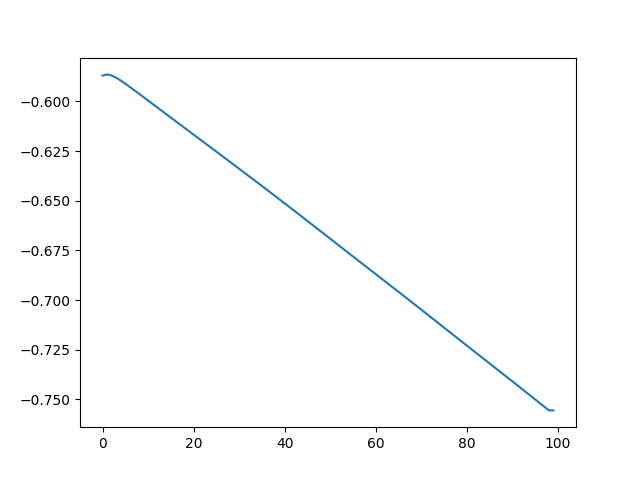
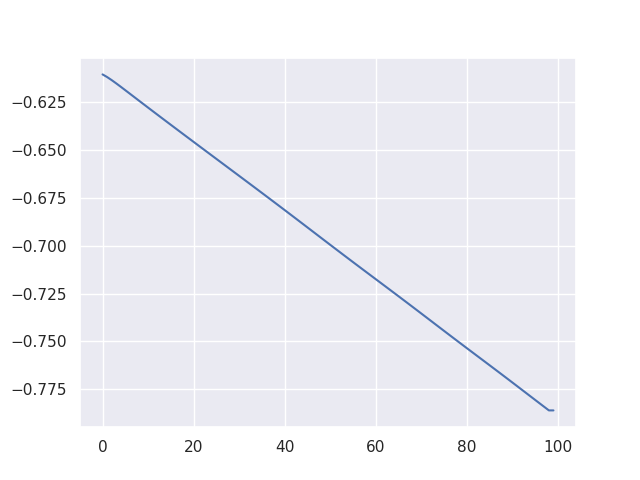
fixed some equation code

diff --git a/multi_solver_relaxed.py b/multi_solver_relaxed.py
@@ -1,6 +1,5 @@
 import numpy as np
 from numba import njit
-import numba_scipy
 import testUtils as tu
 
 import scipy.optimize as sp
@@ -33,7 +32,7 @@ def elyps_solver(
                     + __G_h(i, j + 0.5, len, width)
                     + __G_h(i, j - 0.5, len, width)
                 )
-                x = c[i, j]
+                x = c[i, j] + 0.01
                 for iter in range(maxiter):
                     # if iter == maxiter - 2:
                     # print(iter)
@@ -46,8 +45,8 @@ def elyps_solver(
                             + __G_h(i, j + 0.5, len, width) * c[i, j + 1] ** alpha
                             + __G_h(i, j - 0.5, len, width) * c[i, j - 1] ** alpha
                         )
-                        - h**-2 * bordernumber * x**alpha
-                        - alpha * x**alpha
+                        + h**-2 * bordernumber * x**alpha
+                        + alpha * x**alpha
                         - alpha * phase[i, j] ** alpha
                     )
 
@@ -59,14 +58,14 @@ def elyps_solver(
                             + __G_h(i, j + 0.5, len, width) * c[i, j + 1] ** alpha
                             + __G_h(i, j - 0.5, len, width) * c[i, j - 1] ** alpha
                         )
-                        - h**-2 * bordernumber * (x + 1e-2) ** alpha
-                        - alpha * (x + 1e-2) ** alpha
+                        + h**-2 * bordernumber * (x + 1e-2) ** alpha
+                        + alpha * (x + 1e-2) ** alpha
                         - alpha * phase[i, j] ** alpha
                     )
-                    if False:
-                        dF = bordernumber * alpha**2 * x ** (
+                    if True:
+                        dF = -1 * h**-2 * alpha**2 * x ** (
                             alpha - 1
-                        ) + alpha**2 * x ** (alpha - 1)
+                        ) + bordernumber * alpha**2 * x ** (alpha - 1)
                     else:
                         dF = 1e2 * (F_h - F)
 
@@ -79,7 +78,7 @@ def elyps_solver(
                     x = x - step
                     if abs(step) < tol:
                         break
-                    if abs(step) > 1e8:
+                    if abs(step) > 1e16:
                         print("Step:")
                         print(step)
                         print("Iter:")
@@ -523,5 +522,4 @@ def test_solver() -> CH_2D_Multigrid_Solver_relaxed:
     solver = CH_2D_Multigrid_Solver_relaxed(
         tu.wprime, tu.k_spheres_phase(5, 5), 1e-3, 1e-3, 1e-3
     )
-    solver.c = solver.phase_small
     return solver

diff --git a/multi_solver.py b/multi_solver.py
@@ -93,7 +93,7 @@ def __G_h(i, j, len_small, width_small) -> float:
     1 if index i,j is in bounds(without padding) and 0 else
     """
     # TODO fix wrong inequatities check for right inclusion of boundry
-    if 1 < i < len_small + 1 and 0 < j < width_small + 1:
+    if 1 <= i <= len_small and 1 <= j <= width_small:
         return 1.0
     return 0.0
 
@@ -260,7 +260,7 @@ class CH_2D_Multigrid_Solver:
         ---------------
         1 if index i,j is in bounds(without padding) and 0 else
         """
-        if 0 < i < self.len_small + 1 and 0 < j < self.width_small + 1:
+        if 1 <= i <= self.len_small and 1 <= j <= self.width_small:
             return 1
         return 0
 
@@ -272,7 +272,7 @@ class CH_2D_Multigrid_Solver:
         ---------------
         1 if index i,j is in bounds(without padding) and 0 else
         """
-        if 0 < i < self.len_large + 1 and 0 < j < self.width_large + 1:
+        if 1 <= i <= self.len_large and 1 <= j <= self.width_large:
             return 1
         return 0
 

diff --git a/test.py b/test.py
@@ -8,6 +8,7 @@ import testUtils as tu
 import numpy as np
 from multi_solver import CH_2D_Multigrid_Solver
 from multi_solver import SMOOTH_jit
+import os
 
 
 from multiprocessing import Lock, Process
@@ -35,6 +36,8 @@ def main() -> None:
 
 def gen_data(experiment_name: str) -> None:
     lock = Lock()
+    if not os.path.exists(f"data/{experiment_name}"):
+        os.mkdir(f"data/{experiment_name}")
     dataset = [
         (tu.sphere_phase(10), 100, f"{experiment_name}/sphere", lock),
         (tu.square_phase(), 100, f"{experiment_name}/square", lock),

diff --git a/plot_mass_balance.py b/plot_mass_balance.py
@@ -25,13 +25,13 @@ def plot(path: str, dir: str, savedir: str) -> None:
         ax = plt.gca()
         # ax.set_ylim([-1, 1])
         plt.plot(balance_scaled)
-        plt.savefig(imgpath + f"{d}_balance.png")
+        plt.savefig(imgpath + f"balance_{d}.png")
         plt.close()
 
 
 def main() -> None:
-    path = "/home/jon/Projects/Bsc_CH_NN_Solving"
-    plot(path, "data/experiments", "images")
+    path = "/home/proceduraltree/Projects/Bsc_CH_NN_Solving"
+    plot(path, "data/new_boundry", "images")
 
 
 if __name__ == "__main__":

diff --git a/plot_data.py b/plot_data.py
@@ -33,7 +33,7 @@ def plot(path: str, dir: str, savedir: str) -> None:
 
 def main() -> None:
     path = "/home/proceduraltree/Projects/Bsc_CH_NN_Solving"
-    plot(path, "data/experiments", "images")
+    plot(path, "data/new_boundry", "images")
 
 
 if __name__ == "__main__":

diff --git a/testUtils.py b/testUtils.py
@@ -6,6 +6,7 @@ from multi_solver import CH_2D_Multigrid_Solver
 from multi_solver import SMOOTH_jit
 from numpy.random import Generator, PCG64
 import random
+import os
 
 SIZE = 32
 SEED = 42
